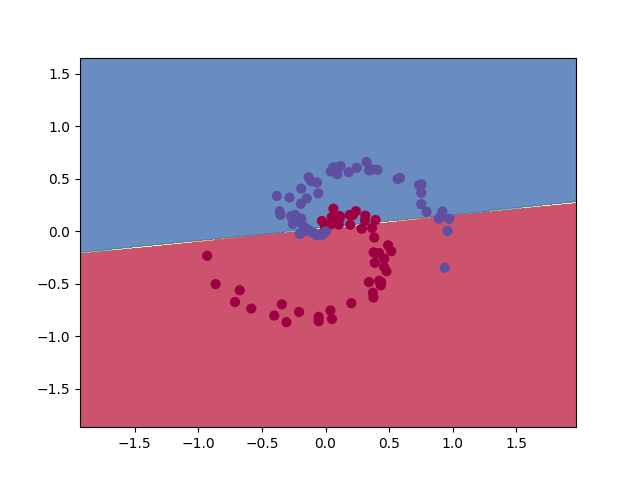
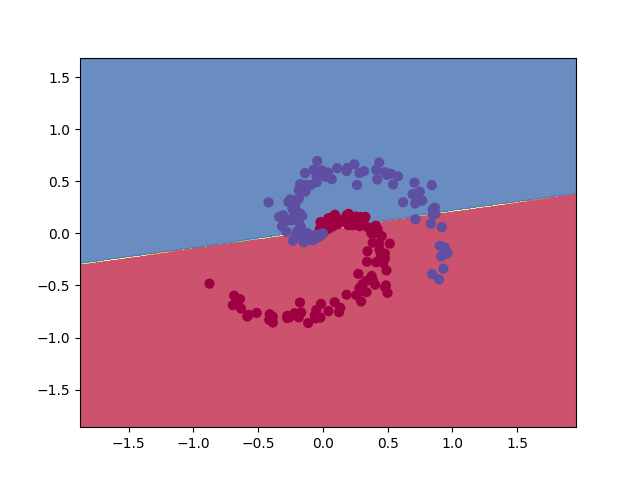
made more additions of details

diff --git a/svm/svm.py b/svm/svm.py
@@ -30,15 +30,25 @@ class SVM:
         self.alphas = np.array(sol["x"])
 
     def get_parameters(self, alphas):
+        """
+        Computes W, b parameter using support vectors 
+        and alphas for optimization. 
+        """
         threshold = 1e-5
 
-        sv = ((alphas > threshold) * (alphas < self.C)).flatten()
-        self.w = np.dot(X[sv].T, alphas[sv] * self.y[sv, np.newaxis])
-        self.b = np.mean(
-            self.y[sv, np.newaxis]
-            - self.alphas[sv] * self.y[sv, np.newaxis] * self.K[sv, sv][:, np.newaxis]
+        support_vectors = ((alphas > threshold) * (alphas < self.C)).flatten()
+
+        self.w = np.dot(
+            X[support_vectors].T, alphas[support_vectors] 
+            * self.y[support_vectors, np.newaxis]
         )
-        return sv
+
+        self.b = np.mean(
+            self.y[support_vectors, np.newaxis]
+            - self.alphas[support_vectors] * self.y[support_vectors, np.newaxis] 
+            * self.K[support_vectors, support_vectors][:, np.newaxis]
+        )
+        return support_vectors
 
     def predict(self, X):
         y_predict = np.zeros((X.shape[0]))
@@ -55,11 +65,14 @@ class SVM:
 
 if __name__ == "__main__":
     np.random.seed(1)
-    X, y = create_dataset(N = 50)
-    kernel = gaussian
-    svm = SVM(kernel=kernel)
-    svm.fit(X, y)
-    y_pred = svm.predict(X)
-    plot_contour(X, y, svm)
+    X, y = create_dataset(N = 100)
+    kernel = [linear, polynomial, gaussian]
 
-    print(f"Accuracy: {sum(y==y_pred)/y.shape[0]}")
+    for k in kernel:
+        svm = SVM(kernel=k)
+        svm.fit(X, y)
+        y_pred = svm.predict(X)
+        plot_contour(X, y, svm, kernel = k.__name__)
+
+        print(f"Accuracy using {k.__name__}: {sum(y == y_pred) / y.shape[0]}")
+        

diff --git a/svm/utils.py b/svm/utils.py
@@ -9,7 +9,7 @@ def polynomial(x, z, p = 5):
 
 
 def gaussian(x, z, sigma = 0.1):
-    return np.exp(-np.linalg.norm(x - z, axis=1) ** 2 / (2 * (sigma ** 2)))
+    return np.exp(- np.linalg.norm(x - z, axis = 1) ** 2 / (2 * (sigma ** 2)))
 
 def create_dataset(N, D = 2, K = 2):
     X = np.zeros((N * K, D))  # data matrix (each row = single example)
@@ -31,7 +31,7 @@ def create_dataset(N, D = 2, K = 2):
 
     return X, y
 
-def plot_contour(X, y, svm):
+def plot_contour(X, y, svm, kernel):
     # plot the resulting classifier
     h = 0.01
     x_min, x_max = X[:, 0].min() - 1, X[:, 0].max() + 1
@@ -47,5 +47,5 @@ def plot_contour(X, y, svm):
 
     # plt the points
     plt.scatter(X[:, 0], X[:, 1], c=y, s=40, cmap=plt.cm.Spectral)
-    plt.savefig(f'assets/output_data.png')
+    plt.savefig(f'assets/output_data_{kernel}.png')
     plt.show()

diff --git a/svm/README.md b/svm/README.md
@@ -149,7 +149,7 @@ Sometimes, linear SVM classification task cannot be achieved due to data not bei
 
 ### Implementation 
 
-The implementation and mathematics presented above are inspired from ![Lecture Notes](https://see.stanford.edu/materials/aimlcs229/cs229-notes3.pdf) and ![Lecture Videos](https://www.youtube.com/playlist?list=PLoROMvodv4rMiGQp3WXShtMGgzqpfVfbU) from Andrew Ng (Machine Learning, Stanford University). For otimizing the dual Lagrangian formulation, we use `cvxopt` package for python which makes optimizing quadratic functions easier and faster. 
+The implementation and mathematics presented above are inspired from ![Lecture Notes](https://see.stanford.edu/materials/aimlcs229/cs229-notes3.pdf) and ![Lecture Videos](https://www.youtube.com/playlist?list=PLoROMvodv4rMiGQp3WXShtMGgzqpfVfbU) from Andrew Ng (Machine Learning, Stanford University) and with the help of tutorial ![here](https://www.youtube.com/watch?v=gBTtR0bs-1k&feature=youtu.be). For otimizing the dual Lagrangian formulation, we use `cvxopt` package for python which makes optimizing quadratic functions easier and faster. The result for sphiral shaped dataset is presented below.
 
 |  |  |
 |:--------------:|:-----------:|
